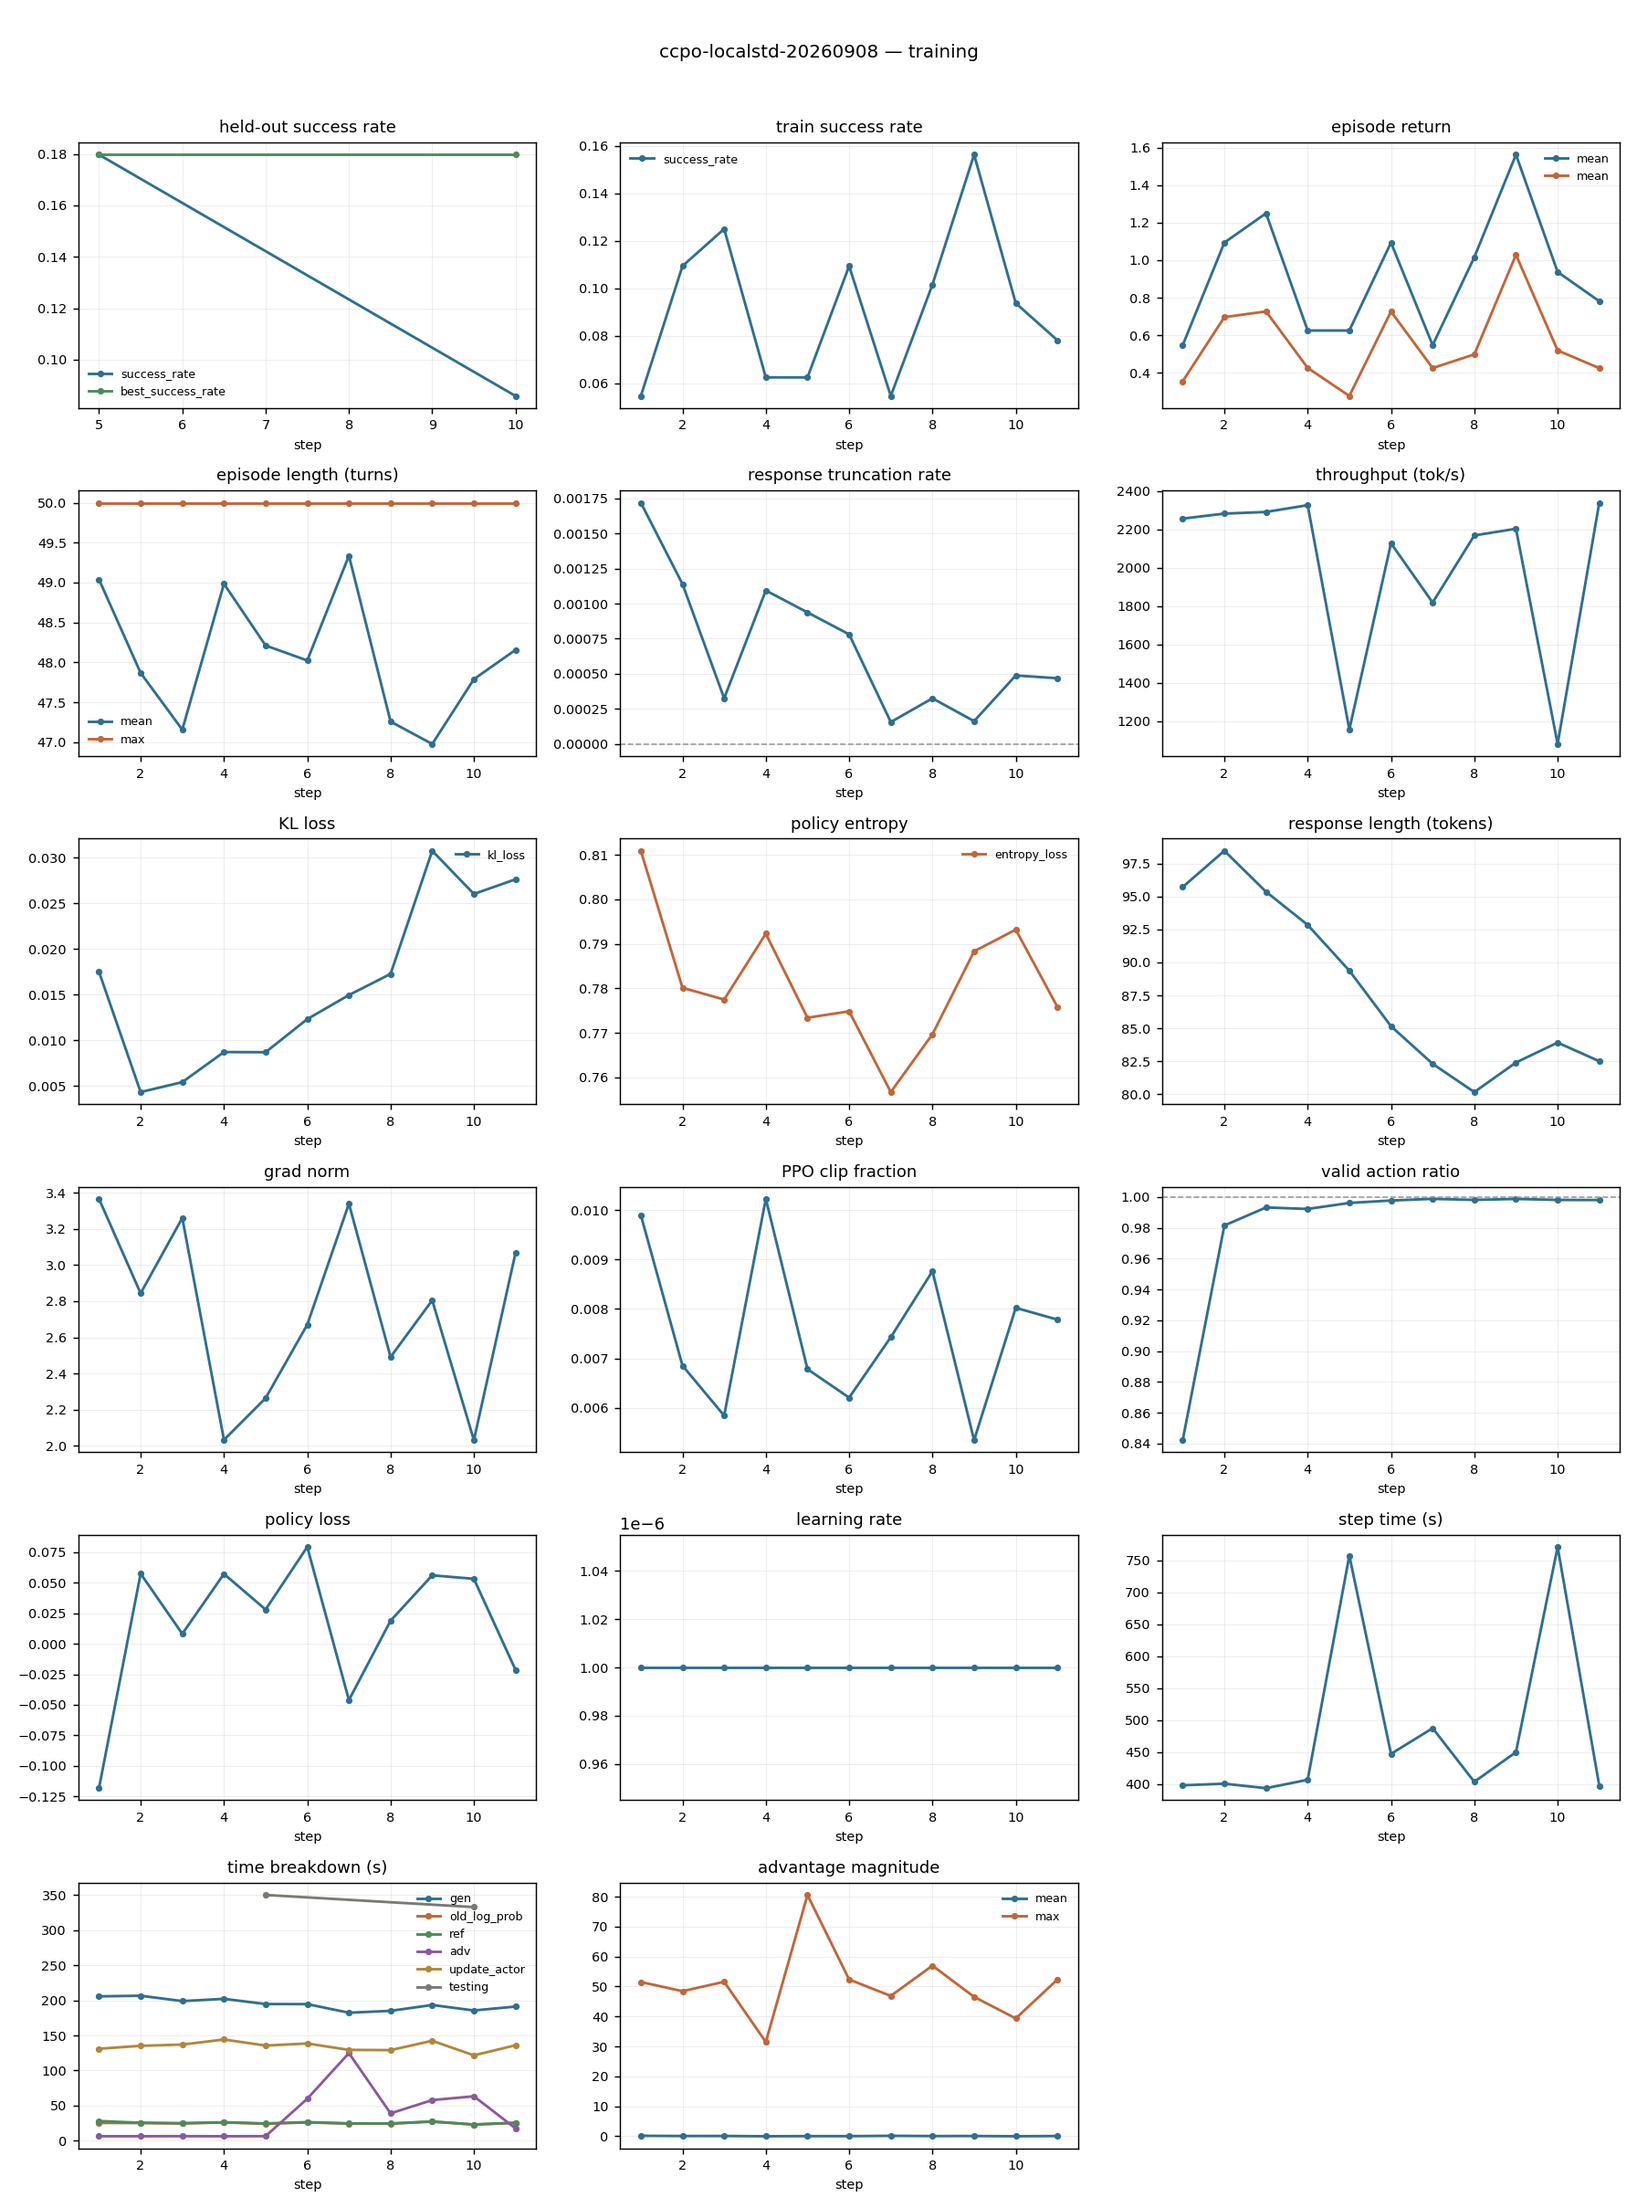
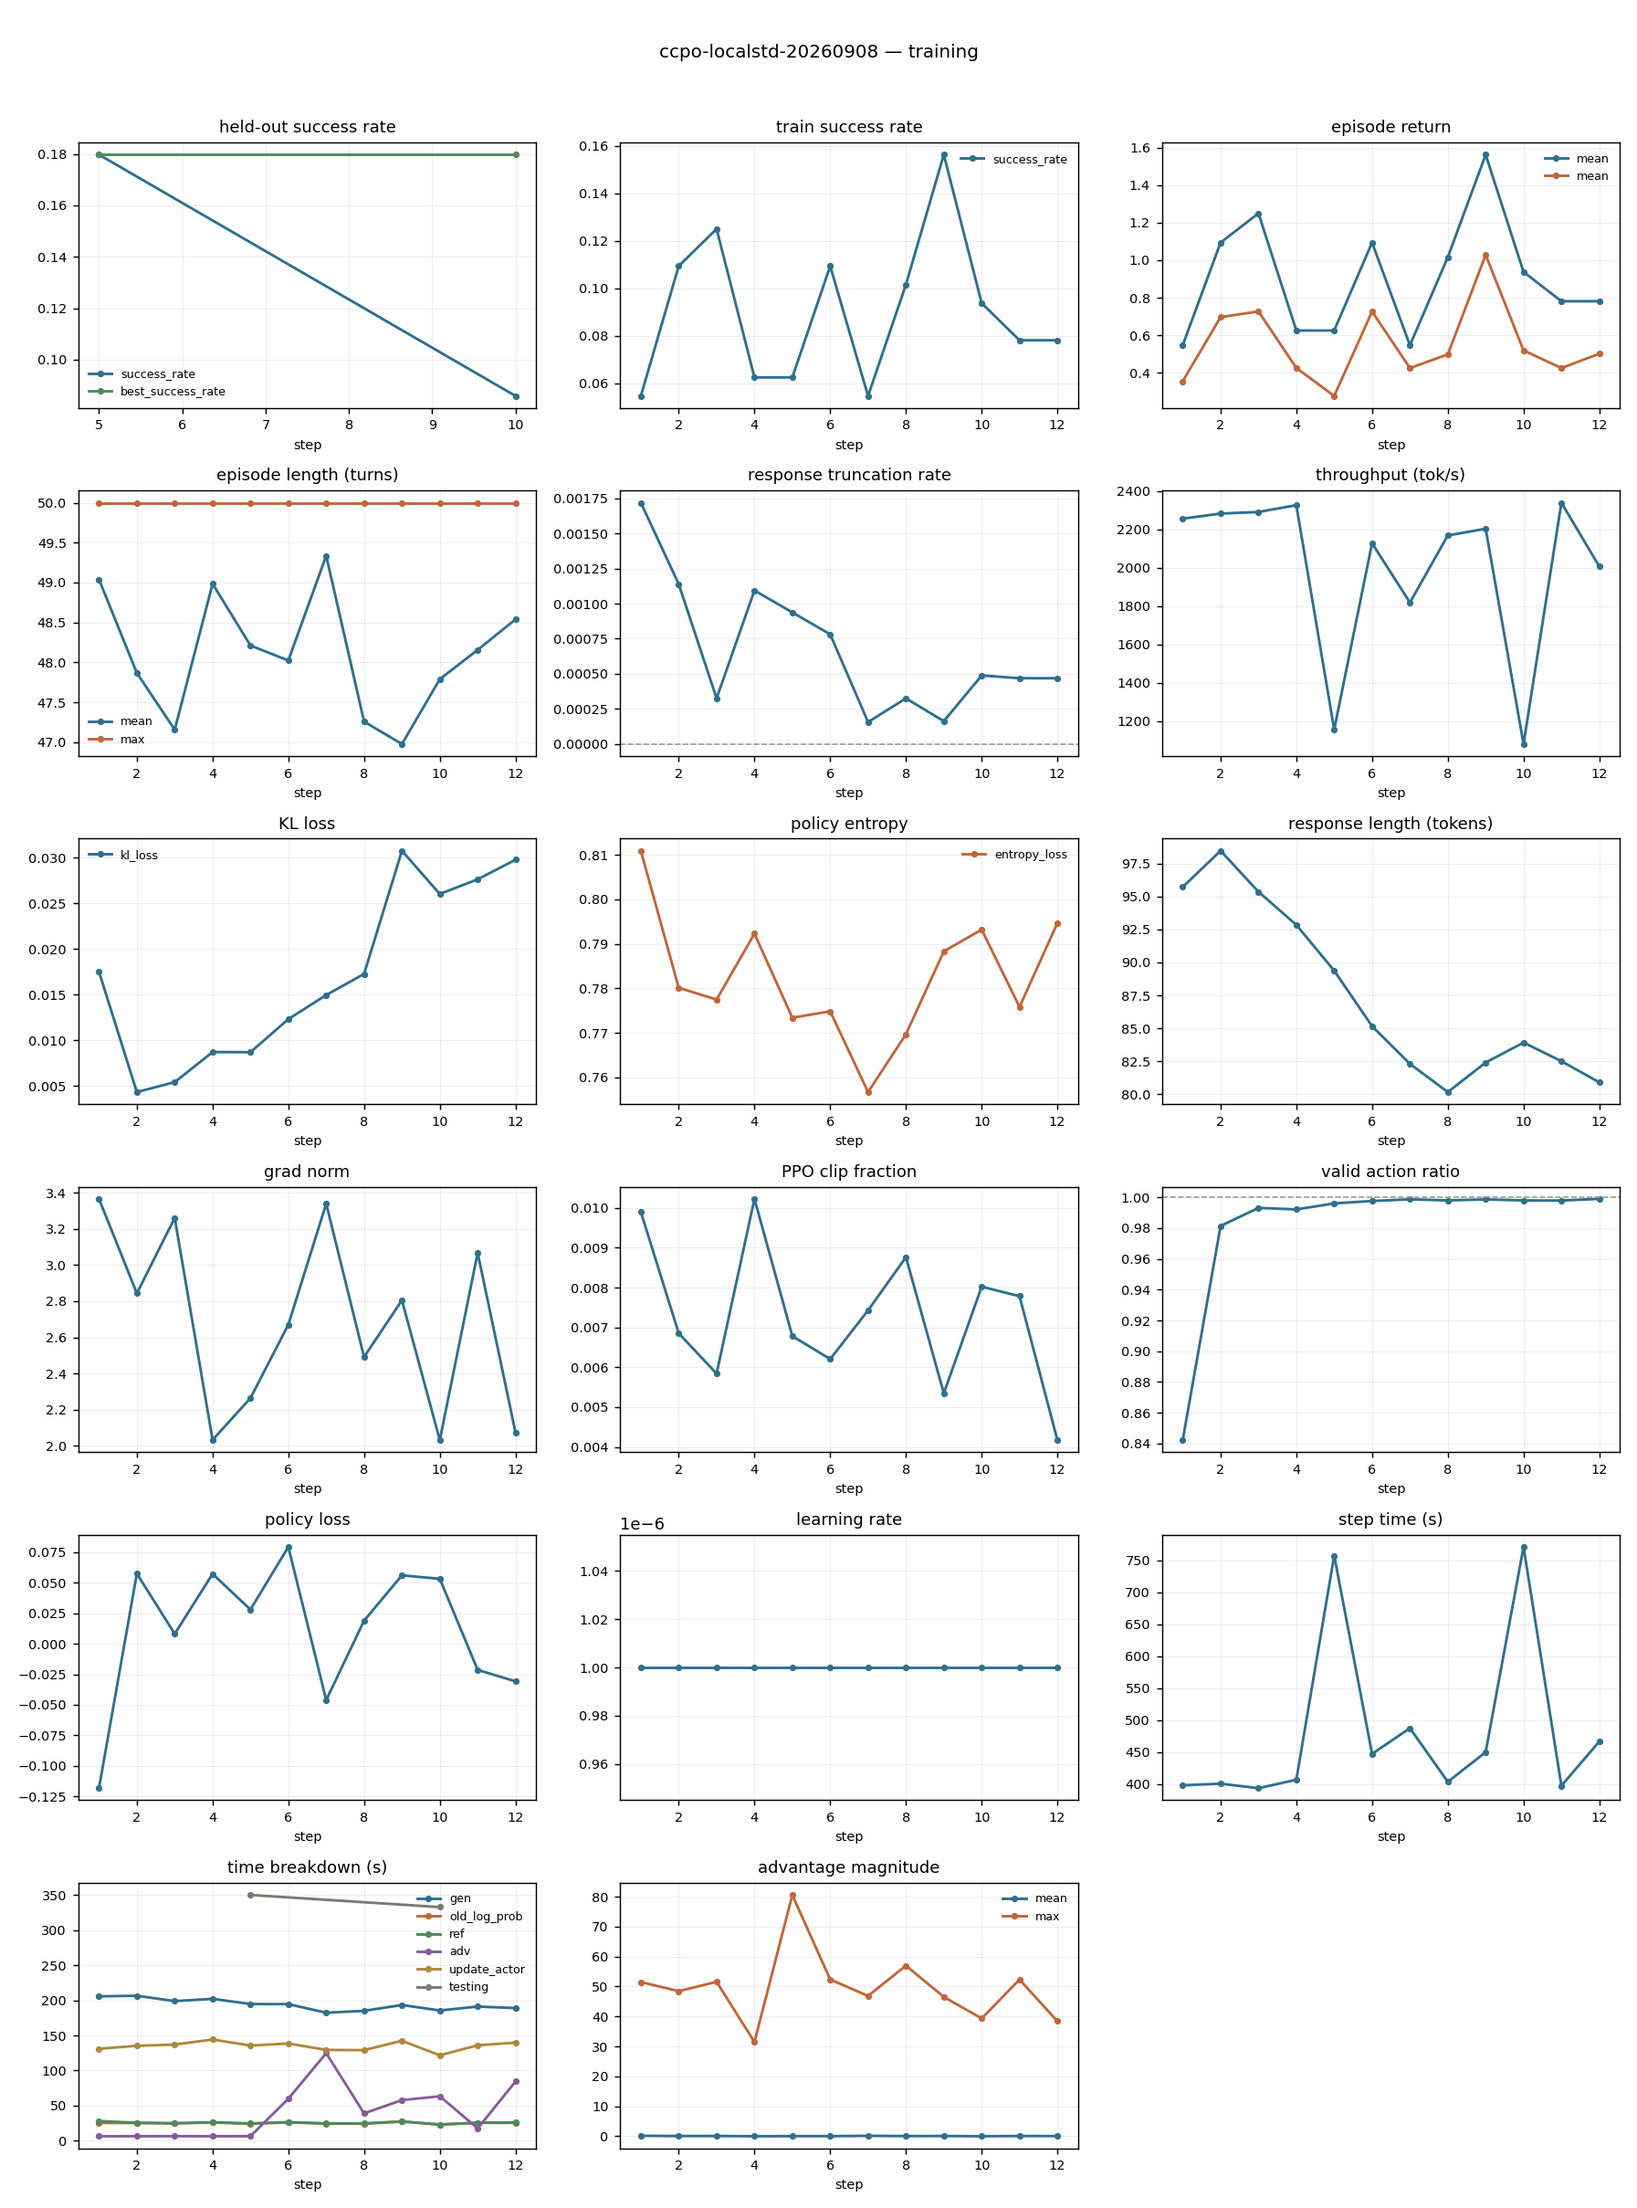
method.html: add five real weighting pairs from a training batch (02c-bis)
The four mechanism figures are schematic. This section shows what the kernel does on
actual data: five cross-trajectory pairs from gate-probe-20260907 with task, context,
inferred action, V(next), phi-distance and soft weight.

Chosen to span the regimes rather than flatter the method. Examples 1, 3 and 4 show it
working -- pooling genuine twins, splitting an observation match that shares no
situation (w = 0.0006 where GiGPO and G2PO pool at equal weight), and merging across a
one-token difference the hard gate would discard. Examples 2 and 5 show why it does not
translate: at turn zero the discriminating information does not exist yet when phi is
computed, and in a dead-node pair there is nothing to discriminate.

Leads with the weight distribution -- median cross-pair weight 1.25e-03, p99 0.187 --
since the sharpness of the kernel is itself the first thing to know. Notes that actions
are inferred from the successor observation because they are not plumbed into the
estimator, and that the deterministic _seed_of hash was used so the pairs reproduce.

Claude-Session: https://claude.ai/code/session_01TnVw4qcXikRNMjxhmmuJXY

diff --git a/docs/method.html b/docs/method.html
@@ -746,6 +746,120 @@ td .m{font-family:"IBM Plex Mono",monospace; font-size:.93em}
 
 <section>
   <div class="sec-head">
+    <div class="eyebrow">02c-bis — five real pairs from a training batch</div>
+    <h2>What the kernel actually does</h2>
+    <p>Drawn from <span class="m">gate-probe-20260907</span>: 823,771 cross-trajectory pairs inside one batch, φ =
+    hashed bag(observation) ⊕ thermometer context, weight <span class="m">w = exp(−d/τ)</span> with
+    <span class="m">τ = 0.15 × the task's median φ-distance</span>. Actions are <em>inferred</em> from the successor
+    observation — they are not plumbed into the estimator. Deterministic hash (<span class="m">_seed_of</span>), so
+    these pairs are reproducible.</p>
+  </div>
+
+  <p style="margin:0 0 14px;font-size:13.5px;color:#5c5c57">The weight distribution is itself the first finding:
+  <b>median cross-pair weight 1.25e-03, p99 only 0.187.</b> At τ=0.15 the kernel is sharp — the overwhelming majority
+  of a task contributes essentially nothing, and each baseline rests on a handful of near-twins.</p>
+
+  <div class="scroll">
+    <table>
+      <colgroup><col style="width:15%"><col style="width:42.5%"><col style="width:42.5%"></colgroup>
+      <thead><tr><th>1 · agreeing twins</th><th>traj <span class="m">544d00c1</span></th><th>traj <span class="m">ff26679f</span></th></tr></thead>
+      <tbody>
+        <tr><td class="dim">obs</td><td colspan="2"><em>You clean the cup 2 using the sinkbasin 1.</em> &mdash; identical</td></tr>
+        <tr><td class="dim">context</td><td>t=3, n_uniq=4, rev=0, prog=1.00</td><td>identical</td></tr>
+        <tr><td class="dim">action</td><td>go to sidetable 1</td><td>go to sinkbasin 1</td></tr>
+        <tr><td class="dim">V(next)</td><td class="num">7.438</td><td class="num">7.174</td></tr>
+        <tr><td class="dim"><b>d / w</b></td><td colspan="2" class="num"><b>0.0000 / 1.0000</b></td></tr>
+      </tbody>
+    </table>
+  </div>
+  <p class="tbl-cap">Same situation, same history, different next move &mdash; both land in high-value nodes. Distance
+  is exactly zero, so each carries full weight in the other's baseline. <b>The estimator working as intended.</b></p>
+
+  <div class="scroll" style="margin-top:18px">
+    <table>
+      <colgroup><col style="width:15%"><col style="width:42.5%"><col style="width:42.5%"></colgroup>
+      <thead><tr><th>2 · conflated</th><th>traj <span class="m">2cbec48b</span></th><th>traj <span class="m">79df0fc0</span></th></tr></thead>
+      <tbody>
+        <tr><td class="dim">task</td><td colspan="2"><em>find two toiletpaper and put them in toilet</em></td></tr>
+        <tr><td class="dim">obs</td><td colspan="2">opening room description, 16 objects &mdash; identical</td></tr>
+        <tr><td class="dim">context</td><td>t=0, n_uniq=1, rev=0, prog=1.00</td><td>identical</td></tr>
+        <tr><td class="dim">action</td><td><b>pick up the toiletpaper 3 from the dresser 1</b></td><td><b>go to drawer 1</b></td></tr>
+        <tr><td class="dim">V(next)</td><td class="num"><b>3.494</b></td><td class="num"><b>0.000</b></td></tr>
+        <tr><td class="dim"><b>d / w</b></td><td colspan="2" class="num"><b>0.0000 / 1.0000</b></td></tr>
+      </tbody>
+    </table>
+  </div>
+  <p class="tbl-cap"><b>The clearest statement of the method's limit.</b> Turn zero: same room, same task, nothing has
+  happened, so φ-distance is <em>necessarily</em> 0 and the weight is maximal. One agent grabs a toiletpaper and scores
+  3.494; the other opens a drawer and never recovers. <b>No context feature can separate these, because there is no
+  context yet</b> &mdash; the entire difference is the action, which happens <em>after</em> φ is computed.</p>
+
+  <div class="scroll" style="margin-top:18px">
+    <table>
+      <colgroup><col style="width:15%"><col style="width:42.5%"><col style="width:42.5%"></colgroup>
+      <thead><tr><th>3 · separated by context</th><th>traj <span class="m">d07e2ad1</span></th><th>traj <span class="m">0e4a1a30</span></th></tr></thead>
+      <tbody>
+        <tr><td class="dim">obs</td><td colspan="2"><em>countertop 1 … egg 3, egg 1, houseplant 1, spatula 1, spoon 1, tomato 1</em> &mdash; <b>byte-identical</b></td></tr>
+        <tr><td class="dim">context</td><td>t=0, n_uniq=1, rev=0, <b>prog=1.00</b></td><td>t=52, n_uniq=12, rev=1, <b>prog=0.23</b></td></tr>
+        <tr><td class="dim">action</td><td>go to coffeemachine 1</td><td>go to microwave 1</td></tr>
+        <tr><td class="dim">V(next)</td><td class="num">1.009</td><td class="num">1.955</td></tr>
+        <tr><td class="dim"><b>d / w</b></td><td colspan="2" class="num"><b>0.8738 / 0.0006</b></td></tr>
+      </tbody>
+    </table>
+  </div>
+  <p class="tbl-cap"><b>The one place the mechanism does something the baselines cannot.</b> Identical screens,
+  opposite situations &mdash; one just arrived, the other is 52 turns in and circling. Context drives the weight to
+  0.0006. <b>GiGPO and G²PO pool these two at equal weight</b>, since the observation matches.</p>
+
+  <div class="scroll" style="margin-top:18px">
+    <table>
+      <colgroup><col style="width:15%"><col style="width:42.5%"><col style="width:42.5%"></colgroup>
+      <thead><tr><th>4 · merged across observations</th><th>traj <span class="m">f4ab755a</span></th><th>traj <span class="m">c89b8e5d</span></th></tr></thead>
+      <tbody>
+        <tr><td class="dim">obs</td><td>diningtable … <b>cup 2</b>, fork 1, …</td><td>diningtable … <b>cup 2, cup 1</b>, fork 1, …</td></tr>
+        <tr><td class="dim">context</td><td>t=2, n_uniq=3, rev=0, prog=1.00</td><td>identical</td></tr>
+        <tr><td class="dim">action</td><td>pick up the cup 1 from the diningtable 1</td><td>(unclear from obs)</td></tr>
+        <tr><td class="dim">V(next)</td><td class="num">7.296</td><td class="num">6.473</td></tr>
+        <tr><td class="dim"><b>d / w</b></td><td colspan="2" class="num"><b>0.0258 / 0.8147</b></td></tr>
+      </tbody>
+    </table>
+  </div>
+  <p class="tbl-cap"><b>One object differs</b> &mdash; <span class="m">cup 1</span> present in one listing, absent in
+  the other. Under the hard gate that single token puts them in separate buckets and each loses a comparator; the
+  kernel keeps them at 81%. This is what lifts <span class="m">live_frac</span> from ~0.65 to 1.000.</p>
+
+  <div class="scroll" style="margin-top:18px">
+    <table>
+      <colgroup><col style="width:15%"><col style="width:42.5%"><col style="width:42.5%"></colgroup>
+      <thead><tr><th>5 · both dead nodes</th><th>traj <span class="m">2cbec48b</span></th><th>traj <span class="m">14f01fc5</span></th></tr></thead>
+      <tbody>
+        <tr><td class="dim">obs</td><td colspan="2"><em>You arrive at toilet 1. On the toilet 1, you see a soapbar 3.</em> &mdash; identical</td></tr>
+        <tr><td class="dim">context</td><td>t=14, n_uniq=8, rev=1, prog=0.53</td><td>t=13, n_uniq=8, rev=1, prog=0.57</td></tr>
+        <tr><td class="dim">action</td><td>go to shelf 2</td><td>go to shelf 2</td></tr>
+        <tr><td class="dim">V(next)</td><td class="num"><b>0.000</b></td><td class="num"><b>0.000</b></td></tr>
+        <tr><td class="dim"><b>d / w</b></td><td colspan="2" class="num"><b>0.0000 / 1.0000</b></td></tr>
+      </tbody>
+    </table>
+  </div>
+  <p class="tbl-cap">Both circling, both taking the same action, both moving into nodes no successful trajectory ever
+  reached. Perfect weight, and <b>zero gradient information</b> &mdash; target minus baseline is 0 either way. With
+  <b>50.8% of all targets exactly zero</b>, a large share of the estimator's work looks like this, and it is where the
+  σ floor in the coherent-standardisation variant earns its place.</p>
+
+  <div class="callout" style="margin-top:20px">
+    <div class="lbl">What the five together say</div>
+    <p>Examples 1, 3 and 4 are the mechanism doing exactly what it was designed to do: pooling genuine twins, splitting
+    an observation match that shares no situation, and merging across a one-token difference the hard gate would have
+    discarded.</p>
+    <p>Examples 2 and 5 are why it does not translate into performance. In 2 the discriminating information
+    <em>does not exist yet</em> at the moment φ is computed; in 5 there is nothing to discriminate. Together they are
+    the qualitative face of H-H's measurement — only ~12% of within-bucket return variance is attributable to how a
+    trajectory arrived, because on ALFWorld what happens next is dominated by the action chosen now.</p>
+  </div>
+</section>
+
+<section>
+  <div class="sec-head">
     <div class="eyebrow">02d — the shipped estimator, 2026-09-06</div>
     <h2>What actually runs, and what is only an option</h2>
   </div>
